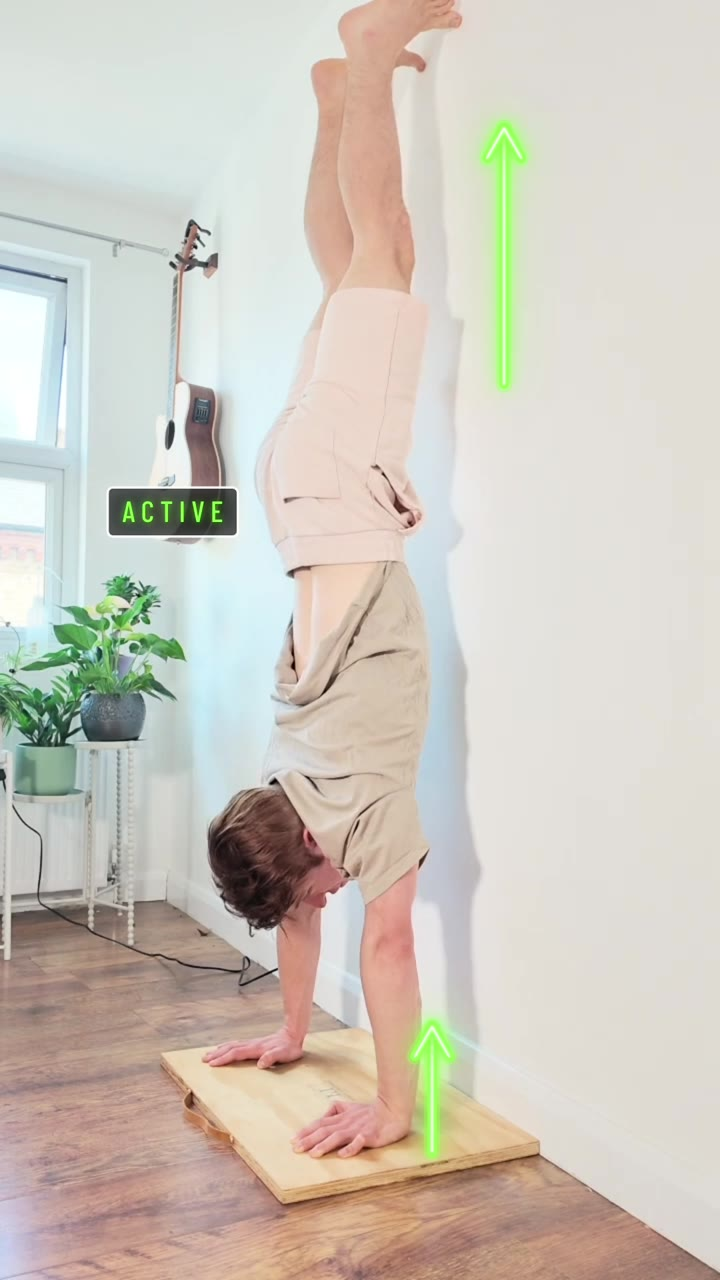
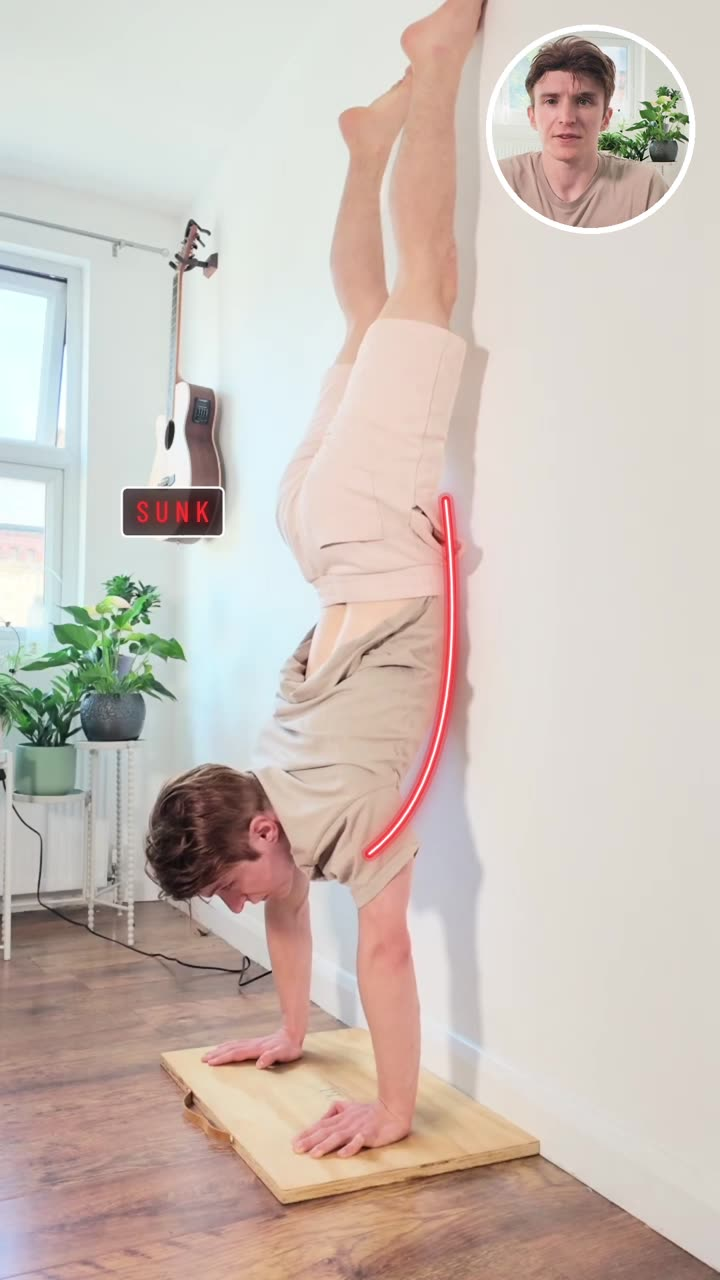
Form check page: reply film has Elliott talking in a circle top right, tap for sound

diff --git a/form-check.html b/form-check.html
@@ -37,10 +37,13 @@ html{scroll-behavior:smooth}
 .fc-chat p{margin:0 0 4px}.fc-chat time{display:block;text-align:right;font-size:10px;opacity:.7}
 .fc-chat .ch-clip{display:flex;align-items:center;gap:8px;background:rgba(255,255,255,.14);border-radius:10px;padding:8px;margin-bottom:6px;font-size:12px}
 .fc-chat .ch-clip small{display:block;opacity:.75}
-.fc-chat video{display:block;width:100%;aspect-ratio:9/16;max-height:340px;object-fit:cover;border-radius:10px;background:#ddd;margin-bottom:6px}
+.fc-chat video{display:block;width:100%;height:auto;aspect-ratio:9/16;object-fit:cover;border-radius:10px;background:#ddd;margin-bottom:6px}
 .fc-chat .ch-day{align-self:center;font-size:11px;color:#5a5a5a;background:#fff;border-radius:99px;padding:3px 10px}
 .fc-chat .ch-bar{display:flex;align-items:center;justify-content:space-between;margin:4px 10px 12px;background:#fff;border:1px solid rgba(0,64,61,.14);border-radius:99px;padding:8px 8px 8px 14px;font-size:13px;color:#686868}
 .fc-chat .ch-bar i{width:26px;height:26px;border-radius:50%;background:#006663}
+.fc-chat .ch-vid{position:relative}
+.fc-chat .ch-snd{position:absolute;left:8px;bottom:14px;display:flex;align-items:center;gap:6px;border:0;border-radius:99px;padding:6px 10px;background:rgba(17,17,17,.62);color:#fff;font:600 11px/1 inherit;font-family:inherit;cursor:pointer}
+.fc-chat .ch-snd.on{display:none}
 .fc-shot{display:flex;justify-content:center}
 .fc-phone{width:min(400px,100%);border:8px solid #151515;border-radius:40px;overflow:hidden;background:#fff;
   box-shadow:0 2px 4px rgba(0,64,61,.08),0 34px 60px -26px rgba(0,64,61,.5)}
@@ -144,7 +147,7 @@ html{scroll-behavior:smooth}
 <div class="ch-me"><div class="ch-clip"><svg width="22" height="22" viewBox="0 0 24 24" fill="none" stroke="currentColor" stroke-width="2" aria-hidden="true"><rect x="3" y="5" width="13" height="14" rx="2"/><path d="M16 10l5-3v10l-5-3"/></svg><span>my-handstand.mov<small>0:48</small></span></div>
 <p>Struggling with: leaving the wall. I tap on and off and never actually balance.</p><time>19:02</time></div>
 <div class="ch-day">Two days later</div>
-<div class="ch-him"><video src="/assets/form-check/slide-away-reply.mp4" poster="/assets/form-check/slide-away-reply.jpg" muted loop playsinline preload="none" width="720" height="1280"></video>
+<div class="ch-him"><div class="ch-vid"><video src="/assets/form-check/slide-away-reply.mp4?v=2" poster="/assets/form-check/slide-away-reply.jpg?v=2" muted loop playsinline preload="none" width="720" height="1280"></video><button type="button" class="ch-snd" aria-label="Play with sound"><svg width="14" height="14" viewBox="0 0 24 24" fill="currentColor" aria-hidden="true"><path d="M4 9v6h4l5 4V5L8 9H4z"/></svg><span>Tap for sound</span></button></div>
 <p><b>What I see:</b> your chest sinks between your hands, so the wall does the holding.</p>
 <p><b>What to do:</b> push the floor away and lift the shoulders, like the second half of this. 3 sets of sunk to active, building to 6 reps, then the slide away.</p><time>20:36</time></div>
 </div>
@@ -539,6 +542,7 @@ html{scroll-behavior:smooth}
 <script src="/stats.js" defer></script>
 <script>
 (function(){var v=document.querySelector('.fc-chat video');if(!v)return;
+var b=document.querySelector('.fc-chat .ch-snd');if(b)b.addEventListener('click',function(){v.muted=false;v.currentTime=0;v.play().catch(function(){});b.classList.add('on');});
 if(!('IntersectionObserver' in window)){v.preload='auto';v.play&&v.play().catch(function(){});return;}
 new IntersectionObserver(function(es){es.forEach(function(e){if(e.isIntersecting){v.play().catch(function(){});}else{v.pause();}})},{threshold:.4}).observe(v);})();
 </script>
